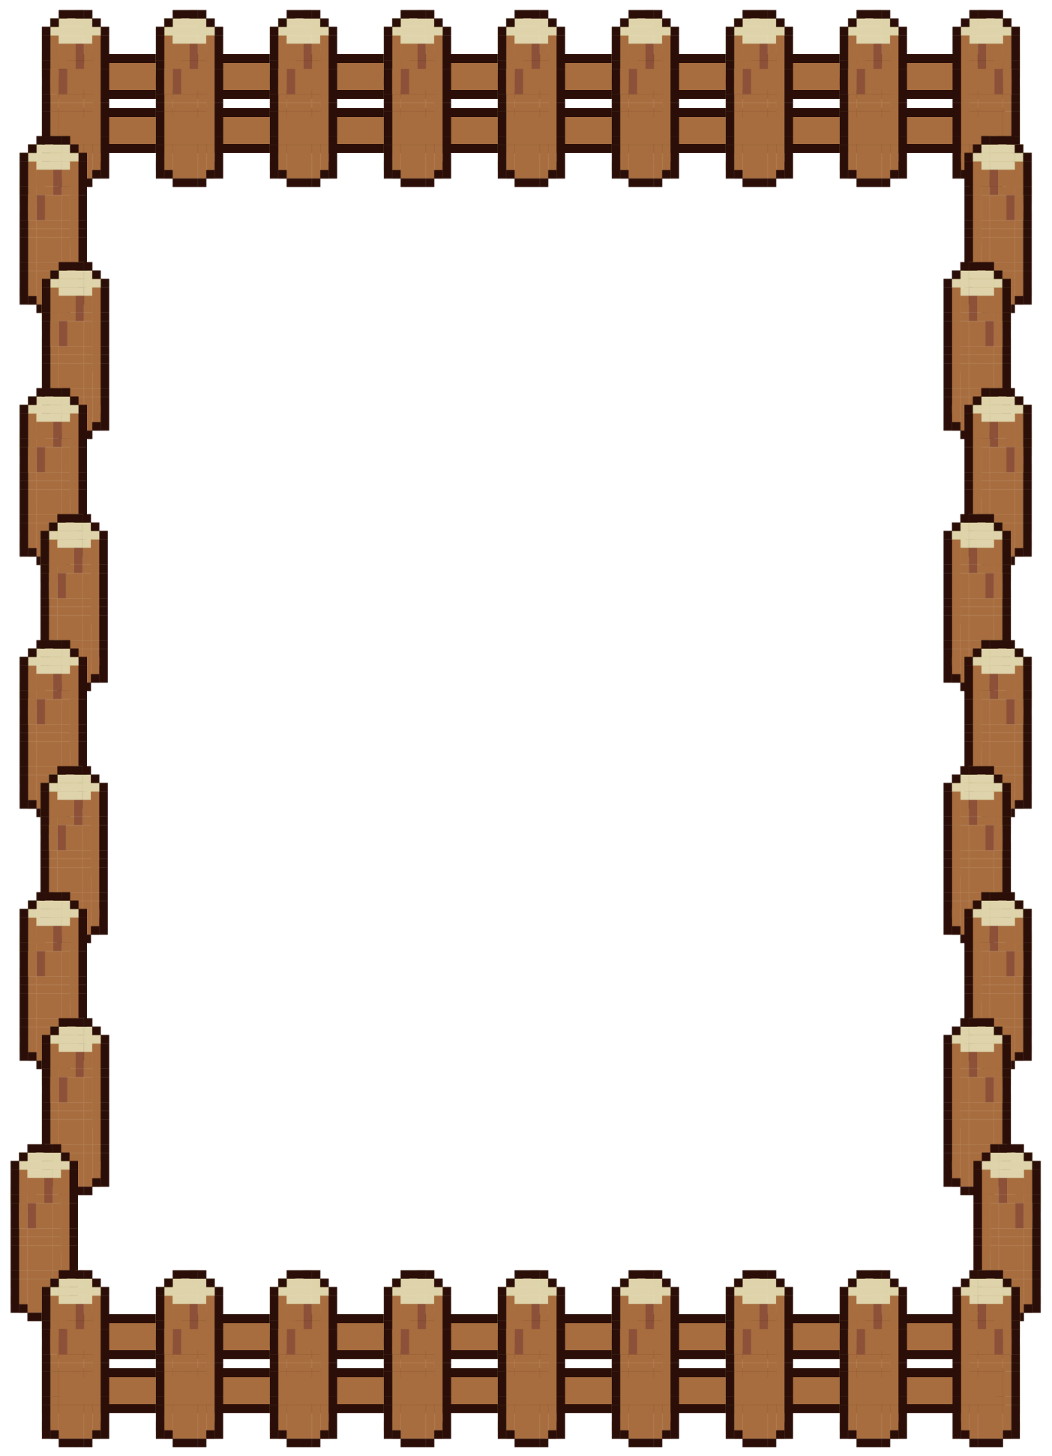
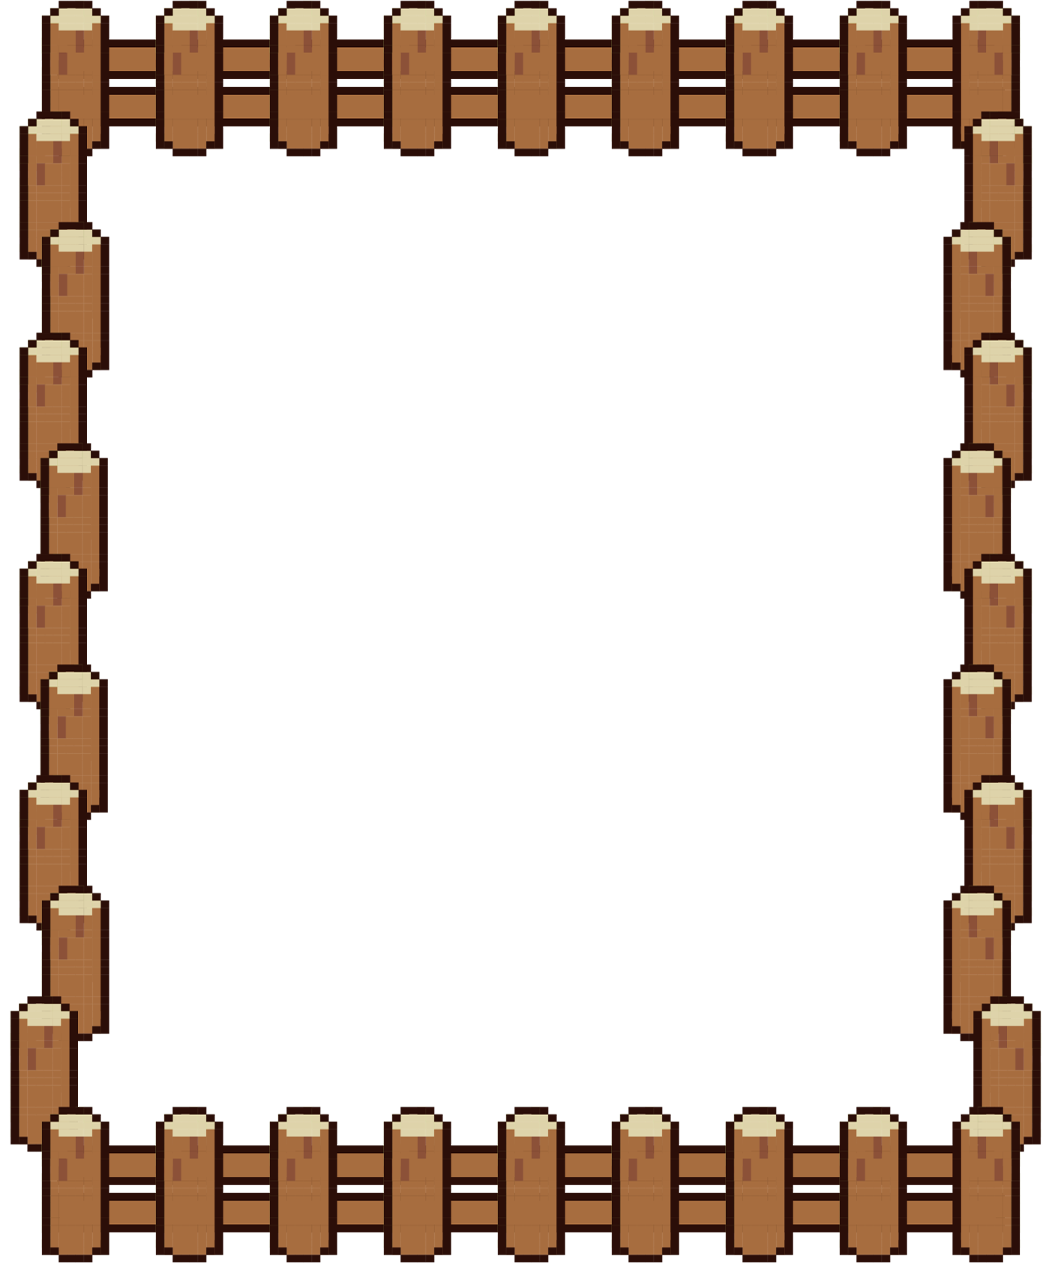
1

diff --git a/src/components/Board/Board.css b/src/components/Board/Board.css
@@ -14,7 +14,8 @@
 }
 .board-bg {
   width: 80%;
-  height: 100vw;
+  height: 90vw;
+  margin-top: 3vw;
   position: absolute;
   background-size: contain;
   background-position: center center;
